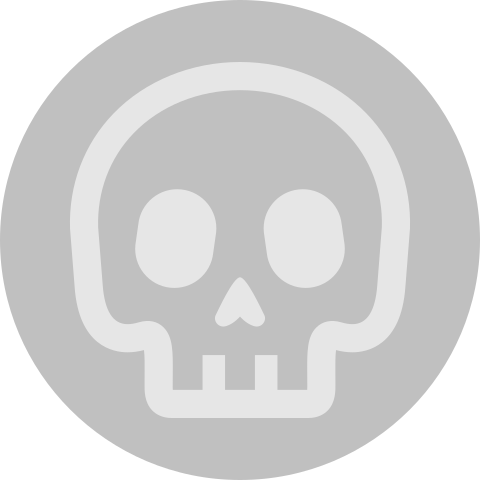
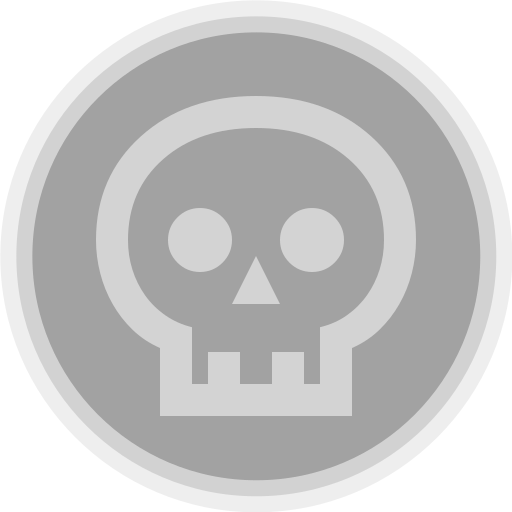
Fix marker scaling with Warp Core
Changes dead marker image to use the same skull as the menu icon.

diff --git a/js/dead-marker.js b/js/dead-marker.js
@@ -46,14 +46,21 @@ function markDead(token) {
         }
     });
 
-    let item = buildImage(
+    let markerSize = 512;
+    let marker = buildImage(
         {
-            width: token.image.width,
-            height: token.image.height,
+            width: markerSize,
+            height: markerSize,
             url: `${window.location.origin}/images/dead-marker.png`,
             mime: "image/png",
         },
-        token.grid
+        {
+            offset: {
+                x: token.grid.offset.x / token.image.width * markerSize,
+                y: token.grid.offset.y / token.image.height * markerSize
+            },
+            dpi: token.grid.dpi / token.image.width * markerSize
+        }
     )
         .layer("PROP")
         .attachedTo(token.id)
@@ -65,7 +72,7 @@ function markDead(token) {
             [getPluginId("role")]: ["DEAD"],
         })
         .build();
-    OBR.scene.items.addItems([item]);
+    OBR.scene.items.addItems([marker]);
 }
 
 export function addMenuItem() {

diff --git a/README.md b/README.md
@@ -1,4 +1,2 @@
 ## Credits
-public/icon.svg and images in images/ come from Google's Material Icons, licensed under [Apache License Version 2.0](https://www.apache.org/licenses/LICENSE-2.0.txt).
-
-images/dead-marker.png uses https://www.svgrepo.com/svg/477410/skull-line-drawing, licensed under [CC0 1.0](https://creativecommons.org/publicdomain/zero/1.0/).
+images in public/ are from or include icons from Google's Material Icons, licensed under [Apache License Version 2.0](https://www.apache.org/licenses/LICENSE-2.0.txt).
